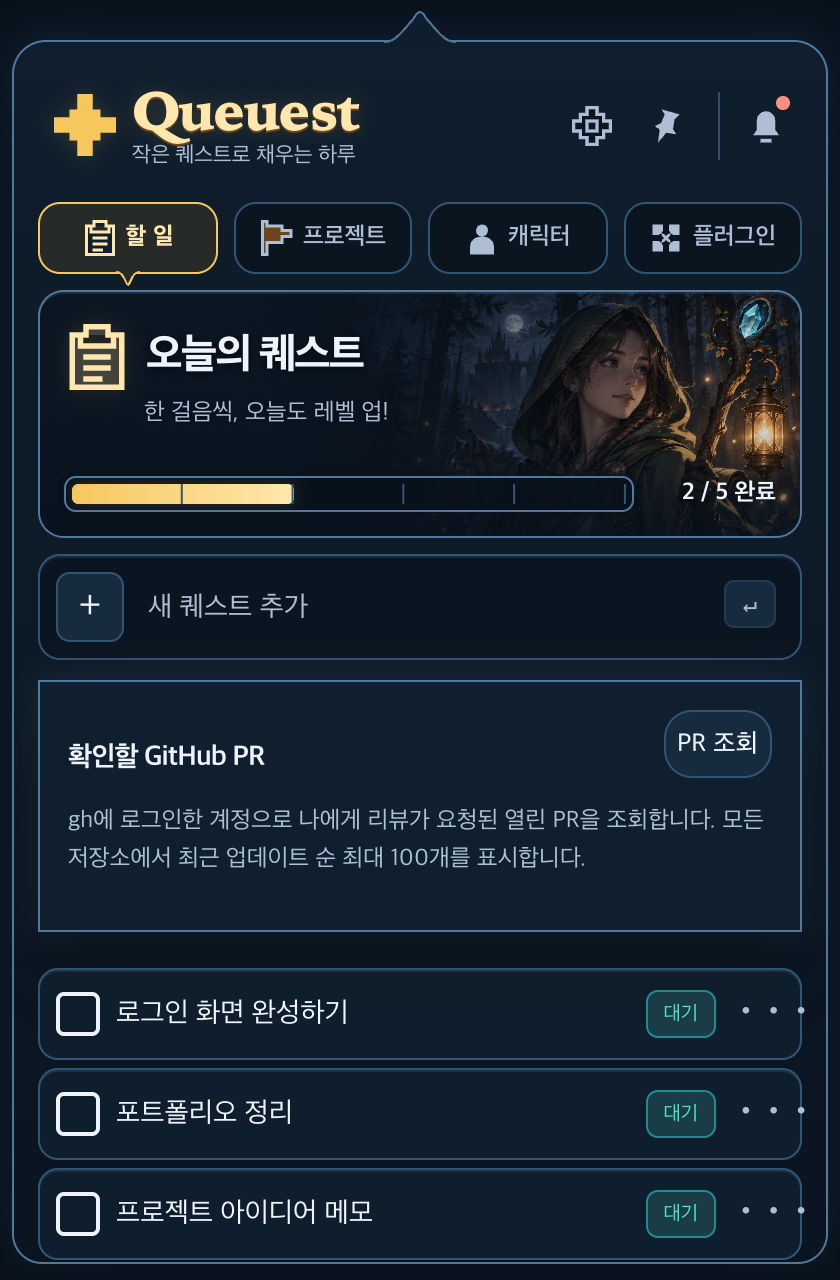
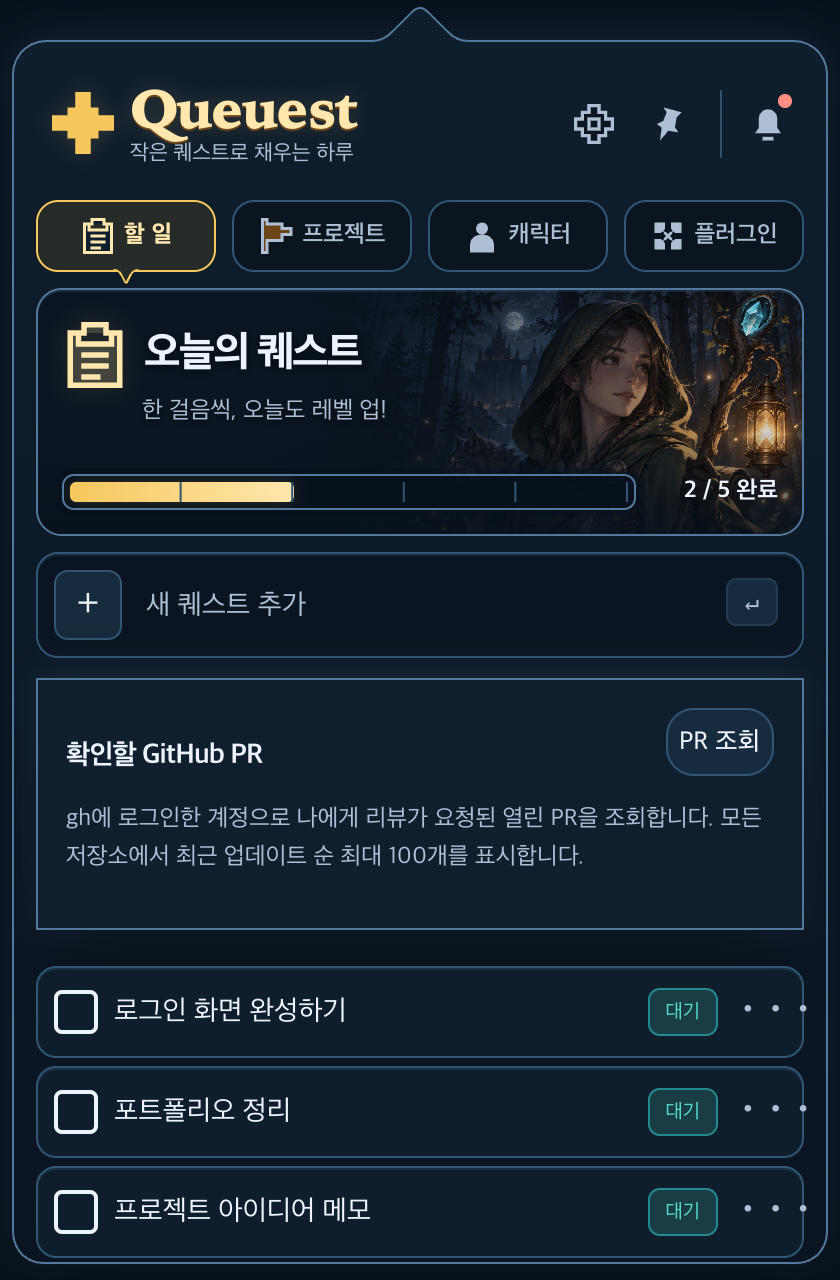
fix: draw popover outline as one continuous path

diff --git a/apps/desktop/src/App.tsx b/apps/desktop/src/App.tsx
@@ -559,9 +559,9 @@ function App() {
 
 function PopoverTip() {
   return (
-    <svg className="popover-tip" viewBox="0 0 64 22" aria-hidden="true" preserveAspectRatio="none">
-      <path className="popover-tip-fill" d="M13 22V18H14C18 18 20 16 23 13L29 6C30 4 31 3 32 3C33 3 34 4 35 6L41 13C44 16 46 18 50 18H51V22Z" />
-      <path className="popover-tip-line" d="M14 18C18 18 20 16 23 13L29 6C30 4 31 3 32 3C33 3 34 4 35 6L41 13C44 16 46 18 50 18" />
+    <svg className="popover-tip" viewBox="0 0 408 630" aria-hidden="true" preserveAspectRatio="none">
+      <path className="popover-tip-fill" d="M180 22V18.5C185 18.5 188 16 191 13L199 5C201 3 202 2 204 2C206 2 207 3 209 5L217 13C220 16 223 18.5 228 18.5V22Z" />
+      <path className="popover-tip-line" d="M17 18.5H180C185 18.5 188 16 191 13L199 5C201 3 202 2 204 2C206 2 207 3 209 5L217 13C220 16 223 18.5 228 18.5H391C400 18.5 407.5 26 407.5 35V614C407.5 622.5 401 629.5 392.5 629.5H15.5C7 629.5 .5 622.5 .5 614V35C.5 26 8 18.5 17 18.5Z" />
     </svg>
   );
 }
@@ -587,7 +587,7 @@ function AppNavigation({ active, onNavigate }: {
           onClick={() => onNavigate(id)}>
           <PixelIcon name={icon} /><span>{label}</span>
           <svg className="nav-tip" viewBox="0 0 28 11" aria-hidden="true" preserveAspectRatio="none">
-            <path className="nav-tip-fill" d="M7 0H21V2H20C18 2 17 3 16 5L15 7C14.6 8 14.3 8.5 14 8.5C13.7 8.5 13.4 8 13 7L12 5C11 3 10 2 8 2H7Z" />
+            <path className="nav-tip-fill" d="M8 0H20V2C18 2 17 3 16 5L15 7C14.6 8 14.3 8.5 14 8.5C13.7 8.5 13.4 8 13 7L12 5C11 3 10 2 8 2Z" />
             <path className="nav-tip-line" d="M8 2C10 2 11 3 12 5L13 7C13.4 8 13.7 8.5 14 8.5C14.3 8.5 14.6 8 15 7L16 5C17 3 18 2 20 2" />
           </svg>
         </button>

diff --git a/apps/desktop/src/styles/retro-shell.css b/apps/desktop/src/styles/retro-shell.css
@@ -222,7 +222,7 @@ button:focus-visible, input:focus-visible, textarea:focus-visible, select:focus-
   margin: 20px auto 8px;
   overflow: visible;
   isolation: isolate;
-  border-color: var(--fantasy-edge-bright);
+  border: 0;
   border-radius: 17px 17px 15px 15px;
   background: linear-gradient(180deg, var(--fantasy-panel-soft), var(--fantasy-panel-deep));
   box-shadow: 0 18px 42px var(--fantasy-window-shadow), 0 0 22px var(--fantasy-window-aura);
@@ -240,10 +240,10 @@ button:focus-visible, input:focus-visible, textarea:focus-visible, select:focus-
   position: absolute;
   z-index: 3;
   top: -18px;
-  left: calc(50% - 32px);
+  left: 0;
   display: block;
-  width: 64px;
-  height: 22px;
+  width: 100%;
+  height: calc(100% + 18px);
   overflow: visible;
   pointer-events: none;
 }
@@ -257,6 +257,8 @@ button:focus-visible, input:focus-visible, textarea:focus-visible, select:focus-
   fill: none;
   stroke: var(--fantasy-edge-bright);
   stroke-width: 1;
+  stroke-linecap: round;
+  stroke-linejoin: round;
   vector-effect: non-scaling-stroke;
 }
 
@@ -333,7 +335,7 @@ button:focus-visible, input:focus-visible, textarea:focus-visible, select:focus-
   pointer-events: none;
 }
 :root[data-theme="fantasy"] .nav-tip-fill { fill: var(--fantasy-active-tab); stroke: none; }
-:root[data-theme="fantasy"] .nav-tip-line { fill: none; stroke: var(--gold); stroke-width: 1; vector-effect: non-scaling-stroke; }
+:root[data-theme="fantasy"] .nav-tip-line { fill: none; stroke: var(--gold); stroke-width: 1; stroke-linecap: round; stroke-linejoin: round; vector-effect: non-scaling-stroke; }
 
 :root[data-theme="fantasy"] .main-content {
   z-index: 1;
